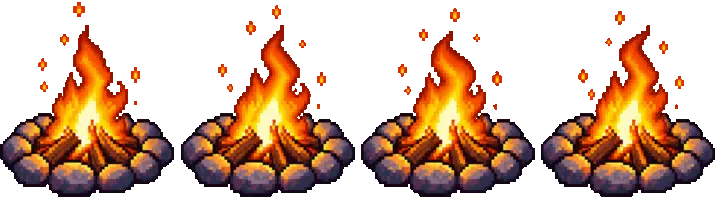
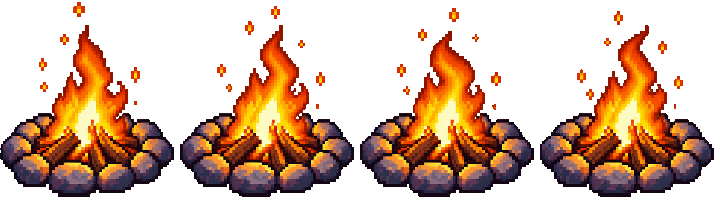
Diario: falò della mappa più piccoli e fermi (pietre allineate tra i frame), cartellini un po' più in alto
Claude-Session: https://claude.ai/code/session_01Ly8M64WoiNxbZKkFq6qyb5

diff --git a/index.html b/index.html
@@ -220,19 +220,19 @@
                     <i class="map-fire" aria-hidden="true" style="left: 56.71%; top: 57.84%; animation-delay: -0.34s"></i>
                     <i class="map-fire" aria-hidden="true" style="left: 84.84%; top: 56.14%; animation-delay: -0.51s"></i>
                     <i class="knight-walker" aria-hidden="true"></i>
-                        <button type="button" class="world-stop" data-level-open="1" data-world-week="1" data-stand-x="7.05" data-stand-y="50.04" data-panel-top="54.57%" style="left: 10.65%; top: 45.77%">
+                        <button type="button" class="world-stop" data-level-open="1" data-world-week="1" data-stand-x="7.05" data-stand-y="50.04" data-panel-top="54.57%" style="left: 10.65%; top: 44.42%">
                             <span class="state-icon" aria-hidden="true"></span>
                             <span class="world-stop-text"><span class="world-stop-lv">LV 01</span><span class="world-stop-state"></span></span>
                         </button>
-                        <button type="button" class="world-stop" data-level-open="2" data-world-week="2" data-stand-x="31.85" data-stand-y="54.08" data-panel-top="57.05%" style="left: 35.46%; top: 48.25%">
+                        <button type="button" class="world-stop" data-level-open="2" data-world-week="2" data-stand-x="31.85" data-stand-y="54.08" data-panel-top="57.05%" style="left: 35.46%; top: 46.90%">
                             <span class="state-icon" aria-hidden="true"></span>
                             <span class="world-stop-text"><span class="world-stop-lv">LV 02</span><span class="world-stop-state"></span></span>
                         </button>
-                        <button type="button" class="world-stop" data-level-open="3" data-world-week="3" data-stand-x="53.10" data-stand-y="59.30" data-panel-top="61.22%" style="left: 56.71%; top: 52.42%">
+                        <button type="button" class="world-stop" data-level-open="3" data-world-week="3" data-stand-x="53.10" data-stand-y="59.30" data-panel-top="61.22%" style="left: 56.71%; top: 51.07%">
                             <span class="state-icon" aria-hidden="true"></span>
                             <span class="world-stop-text"><span class="world-stop-lv">LV 03</span><span class="world-stop-state"></span></span>
                         </button>
-                        <button type="button" class="world-stop" data-level-open="4" data-world-week="4" data-stand-x="81.23" data-stand-y="56.70" data-panel-top="59.53%" style="left: 84.84%; top: 50.73%">
+                        <button type="button" class="world-stop" data-level-open="4" data-world-week="4" data-stand-x="81.23" data-stand-y="56.70" data-panel-top="59.53%" style="left: 84.84%; top: 49.38%">
                             <span class="state-icon" aria-hidden="true"></span>
                             <span class="world-stop-text"><span class="world-stop-lv">LV 04</span><span class="world-stop-state"></span></span>
                         </button>

diff --git a/css/pixel.css b/css/pixel.css
@@ -3053,18 +3053,22 @@ html[data-theme="day"] .theme-toggle .icon-moon {
     position: absolute;
     z-index: 1;
     display: block;
-    width: 6.6%;
+    width: 5%;
     aspect-ratio: 180 / 200;
     transform: translate(-50%, -77%);
     background: url("../immagini/falo-mappa.webp") 0 0 / 400% 100% no-repeat;
     image-rendering: pixelated;
     pointer-events: none;
-    animation: map-fire 0.6s steps(4) infinite;
+    animation: map-fire 0.6s steps(1) infinite;
 }
 
+/* Quattro posizioni esatte, una per disegno: nessuno spostamento tra un frame e l'altro */
 @keyframes map-fire {
-    from { background-position: 0% 0; }
-    to   { background-position: 133.33% 0; }
+    0%   { background-position: 0% 0; }
+    25%  { background-position: 33.3333% 0; }
+    50%  { background-position: 66.6667% 0; }
+    75%  { background-position: 100% 0; }
+    100% { background-position: 100% 0; }
 }
 
 @media (prefers-reduced-motion: reduce) {
